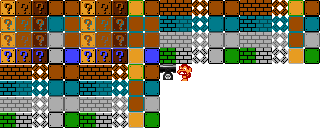
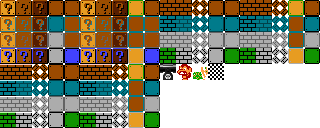
finish line and turtle enemy

Changed region(s): [[0.5938, 0.5, 0.7188, 0.625], [0.5625, 0.625, 0.5938, 0.6562]]

diff --git a/MarioPlatformer/MarioPlatformer/Enemy Types/TurtleEnemy.cs b/MarioPlatformer/MarioPlatformer/Enemy Types/TurtleEnemy.cs
@@ -1,10 +1,62 @@
-using System;
+using Microsoft.Xna.Framework;
+using System;
 using System.Collections.Generic;
 using System.Text;
 
-namespace MarioPlatformer.Enemy_Types
+namespace MarioPlatformer
 {
-    class TurtleEnemy
+    class TurtleEnemy : Enemy
     {
+        private float lifeTime; //After getting turned into a shell there is a certain amount of time until it despawns
+
+        private bool isShell;
+
+        private SpriteSheet walkingSpriteSheet;
+        private SpriteSheet shellSpriteSheet;
+
+        public TurtleEnemy(SpriteSheet texture, Level level, Vector2 position, Vector2 size, int health, float speed) : base(texture, level, position, size, health, speed)
+        {
+            velocity.X = 1;
+            walkingSpriteSheet = texture.GetSubAt(0, 0, 2, 0,size);
+            shellSpriteSheet = texture.GetSubAt(2, 0, 2, 0,size);
+
+            currentSpriteSheet = walkingSpriteSheet;
+        }
+        protected override void ChangeDirection()
+        {
+            foreach (Tile tile in level.Tiles)
+            {
+                if (IsRightOf(tile))
+                {
+                    velocity.X = -1;
+                }
+                else if (IsLeftOf(tile))
+                {
+                    velocity.X = 1;
+                }
+            }
+        }
+
+        protected override void InternalUpdate(GameTime gameTime)
+        {
+            direction.X = velocity.X > 0 ? 1 : -1;
+            if (isDead && !isShell)
+            {
+                isShell = true;
+                isDead = false;
+            }
+
+            if (isShell)
+            {
+                currentSpriteSheet = shellSpriteSheet;
+                speed = 300.0f;
+            }
+            ChangeDirection();
+        }
+
+        protected override void InternalUpdateAnimation(GameTime gameTime)
+        {
+                currentSpriteSheet.XIndex++;
+        }
     }
 }

diff --git a/MarioPlatformer/MarioPlatformer/Enemy.cs b/MarioPlatformer/MarioPlatformer/Enemy.cs
@@ -33,7 +33,8 @@ namespace MarioPlatformer
         {
             enemies.Clear();
             enemies[90] = new Cannon(loader.LoadSpriteSheet("Obstacles\\canon", Vector2.Zero, new Vector2(16, 16), 0), level, Vector2.Zero, new Vector2(16, 16), loader.LoadSpriteSheet("Obstacles\\bullet", Vector2.Zero, new Vector2(16, 13), 0));
-            enemies[91] = new PatrollingEnemy(loader.LoadSpriteSheet("Enemies\\DKenemy", Vector2.Zero, new Vector2(15, 20), 1), level, Vector2.Zero, new Vector2(15, 19), 1, 70.0f);
+            enemies[91] = new PatrollingEnemy(loader.LoadSpriteSheet("Enemies\\DKenemy", Vector2.Zero, new Vector2(15, 20), 1), level, Vector2.Zero, new Vector2(15, 20), 1, 70.0f);
+            enemies[92] = new TurtleEnemy(loader.LoadSpriteSheet("Enemies\\TurtleEnemy", Vector2.Zero, new Vector2(16, 24), 1), level, Vector2.Zero, new Vector2(17, 24), 1, 70.0f);
         }
 
         public static Enemy Get(int id)

diff --git a/MarioPlatformer/MarioPlatformer/Level.cs b/MarioPlatformer/MarioPlatformer/Level.cs
@@ -135,18 +135,18 @@ namespace MarioPlatformer
                 }
                 clearedSpawns = true;
             }
+            DeadEnemyCheck();
             player.Update(gameTime);
             for (int i = 0; i < enemies.Count; i++)
             {
-                enemies[i].Update(gameTime);
-
                 if (enemies[i] is Cannon)
                 {
                     continue;
                 }
                 PlayerCollision(enemies[i], gameTime);
+                enemies[i].Update(gameTime);
             }
-            DeadEnemyCheck();
+            
 
         }
         

diff --git a/MarioPlatformer/MarioPlatformer/Editor.cs b/MarioPlatformer/MarioPlatformer/Editor.cs
@@ -112,7 +112,7 @@ namespace MarioPlatformer
                 if(insideLevel)
                 {
                     int type = (int)((selectedPaletteIndex.X) + (selectedPaletteIndex.Y * palette.Columns));
-                    if(type == 90 || type == 91)
+                    if(type == 90 || type == 91 || type == 92)
                     {
                         gameObjectTiles[mouseTile] = new Tile(selectedPalette, null, mouseTile, type);
                     }

diff --git a/MarioPlatformer/MarioPlatformer/PatrollingEnemy.cs b/MarioPlatformer/MarioPlatformer/PatrollingEnemy.cs
@@ -11,7 +11,7 @@ namespace MarioPlatformer
         public PatrollingEnemy(SpriteSheet texture, Level level, Vector2 position, Vector2 size, int health, float speed) : base(texture, level, position, size, health, speed)
         {
             velocity.X = 1;
-            currentSpriteSheet = texture.GetSubAt(0, 0, 3, 0);
+            currentSpriteSheet = texture.GetSubAt(0,0,3,0);
         }
 
         protected override void ChangeDirection()
